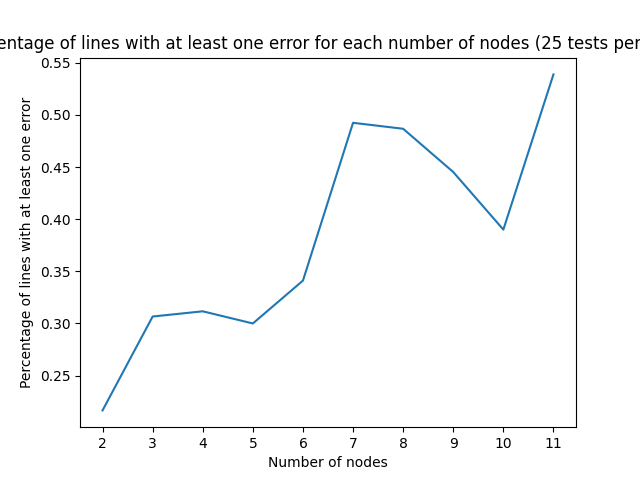
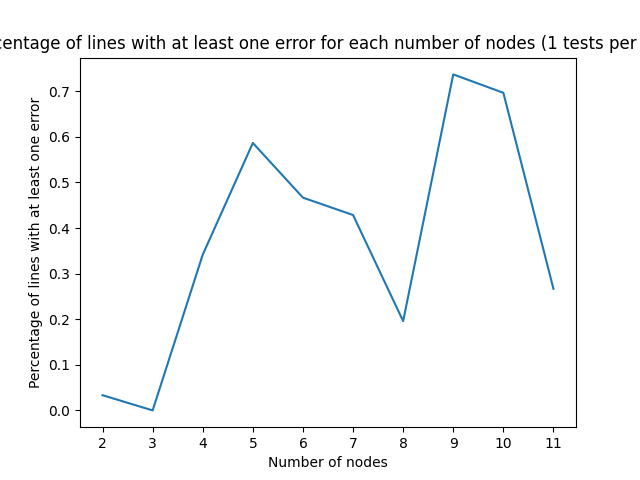
prompt engineering avanced

diff --git a/AutomatasGenerator/promptengeneering-multiversions.py b/AutomatasGenerator/promptengeneering-multiversions.py
@@ -1,0 +1,91 @@
+import openai
+import os
+from filecomparator import compare_files
+from datagenerator import generate_files
+import time
+import matplotlib.pyplot as plt
+NB_NODES_TO_TEST = 10
+NB_TEST_PER_NODE = 25
+NB_GENERATIONS_PER_PROMPT = 5  # number of generations per prompt
+PRICE_PER_TOKEN = 0.002/1000
+
+percentage_of_wrong_lines = [0]*NB_NODES_TO_TEST
+API_KEY = open(str(os.path.dirname(os.path.abspath(__file__))) + "/openai_key.txt", "r").read()
+FIRST_PROMPT = open(str(os.path.dirname(os.path.abspath(__file__))) + "/first_prompt_generateKnowledge.txt", "r").read()
+openai.api_key = API_KEY
+credits = 0
+PATH_TO_DATA = str(os.path.dirname(os.path.abspath(__file__))) + "/../data"
+has_succedded = [0]*NB_NODES_TO_TEST
+has_one_succedded = [0]*NB_NODES_TO_TEST  # For tracking at least one correct generation
+
+for i in range (2, NB_NODES_TO_TEST + 2):
+    print("doing",i,has_one_succedded)
+    generate_files(i, NB_TEST_PER_NODE, 1)
+    for j in range (1, NB_TEST_PER_NODE + 1):
+        PATH_TO_DATA_FILE = PATH_TO_DATA + "/exemple" + str(j) + "/requirement1.txt"
+        FILE_TO_TRANSFORM = open(PATH_TO_DATA_FILE, "r").read()
+        response = None
+        while(response == None):
+            try:
+                response = openai.ChatCompletion.create(
+                    model = "gpt-3.5-turbo",
+                    messages = [
+                        {"role": "user", "content": FIRST_PROMPT},
+                        {"role": "assistant", "content": "Waiting for any prompt."},
+                        {"role": "user", "content": "Q:\n" + FILE_TO_TRANSFORM}
+                    ],
+                    n = NB_GENERATIONS_PER_PROMPT  # number of versions to generate
+                )
+            except openai.error.RateLimitError:
+                print("Rate limit error, waiting 10 seconds...")
+                time.sleep(10)
+            except openai.error.ServiceUnavailableError:
+                print("Service unavailable, waiting for 30 seconds...")
+                time.sleep(30)
+            except openai.error:
+                print("Unknown openai error, waiting for 10 seconds...")
+                time.sleep(10)
+        credits += response['usage']['total_tokens']
+        one_success_in_this_input = False
+        for choice in response.choices:
+            with open("tmp.txt", "w") as f:
+                f.write(choice.message.content)
+            comparation = compare_files("tmp.txt", PATH_TO_DATA + "/exemple" + str(j) +"/fsm.dot")
+            comparation_lines = comparation.splitlines()
+            percentage_of_wrong_lines[i-2] += (len(comparation_lines)-1)/2/len(FILE_TO_TRANSFORM.splitlines())
+            if (comparation == "SUCCESS"):
+                has_succedded[i-2] += 1
+                one_success_in_this_input = True
+            os.remove("tmp.txt")
+        if one_success_in_this_input:
+            has_one_succedded[i-2] += 1
+
+print(has_succedded)
+print("In total i used "+ str(credits) + " tokens which corresponds to "+str(float(credits)*PRICE_PER_TOKEN) + " e.")
+percentage_of_success = [0]*NB_NODES_TO_TEST
+for i in range (0, NB_NODES_TO_TEST):
+    percentage_of_success[i] = has_succedded[i]/(NB_TEST_PER_NODE * NB_GENERATIONS_PER_PROMPT)
+
+percentage_of_one_success = [0]*NB_NODES_TO_TEST
+for i in range (0, NB_NODES_TO_TEST):
+    percentage_of_one_success[i] = has_one_succedded[i]/NB_TEST_PER_NODE
+
+print(percentage_of_wrong_lines)
+for i in range (0, NB_NODES_TO_TEST):
+    percentage_of_wrong_lines[i]  = percentage_of_wrong_lines[i]/(NB_TEST_PER_NODE * NB_GENERATIONS_PER_PROMPT)
+print(percentage_of_wrong_lines)
+plt.plot(range(2, NB_NODES_TO_TEST + 2), percentage_of_wrong_lines)
+plt.xticks(range(2, NB_NODES_TO_TEST + 2), map(int, range(2, NB_NODES_TO_TEST + 2)))
+plt.xlabel("Number of nodes")
+plt.ylabel("Percentage of lines with at least one error")
+plt.title("Percentage of lines with at least one error for each number of nodes ("+  str(NB_TEST_PER_NODE) +" tests per node)")
+plt.savefig('plot.png')
+plt.show()
+
+plt.plot(range(2, NB_NODES_TO_TEST + 2), percentage_of_one_success)
+plt.xticks(range(2, NB_NODES_TO_TEST + 2), map(int, range(2, NB_NODES_TO_TEST + 2)))
+plt.xlabel("Number of nodes")
+plt.ylabel("Percentage of at least one good answer per input")
+plt.title("Percentage of at least one good answer per input for each number of nodes ("+  str(NB_TEST_PER_NODE) +" tests per node)")
+plt.savefig('plot_one_success.png')
+plt.show()

diff --git a/AutomatasGenerator/promptengeneering-multishot.py b/AutomatasGenerator/promptengeneering-multishot.py
@@ -1,0 +1,72 @@
+import openai
+import os
+from filecomparator import compare_files
+from datagenerator import generate_files
+import time
+import matplotlib.pyplot as plt
+
+NB_NODES_TO_TEST = 10
+NB_TEST_PER_NODE = 25
+PRICE_PER_TOKEN = 0.002/1000
+
+percentage_of_wrong_lines = [0]*NB_NODES_TO_TEST
+
+API_KEY = open(str(os.path.dirname(os.path.abspath(__file__))) + "/openai_key.txt", "r").read()
+
+PROMPT_PATHS = [str(os.path.dirname(os.path.abspath(__file__))) + "/prompt1.txt",
+                str(os.path.dirname(os.path.abspath(__file__))) + "/prompt2.txt",
+                str(os.path.dirname(os.path.abspath(__file__))) + "/prompt3.txt"]  
+PROMPT_FILES = [open(path, "r").read() for path in PROMPT_PATHS]
+
+openai.api_key = API_KEY
+credits = 0
+PATH_TO_DATA = str(os.path.dirname(os.path.abspath(__file__))) + "/../data"
+has_succedded = [0]*NB_NODES_TO_TEST
+
+for i in range (2, NB_NODES_TO_TEST + 2):
+    generate_files(i, NB_TEST_PER_NODE, 1)
+    for j in range (1, NB_TEST_PER_NODE + 1):
+        f = open("tmp.txt", "w")
+        time.sleep(20)
+        PATH_TO_DATA_FILE = PATH_TO_DATA + "/exemple" + str(j) + "/requirement1.txt"
+        FILE_TO_TRANSFORM = open(PATH_TO_DATA_FILE, "r").read()
+        response = None
+        user_ai_prompts = [{'role': 'user', 'content': PROMPT_FILES[i % len(PROMPT_FILES)]} if i % 2 == 0 else 
+                           {'role': 'assistant', 'content': PROMPT_FILES[i % len(PROMPT_FILES)]} for i in range(len(PROMPT_FILES))]
+        user_ai_prompts.append({"role": "user", "content": "Q:\n" + FILE_TO_TRANSFORM})
+        while(response == None):
+            try:
+                response = openai.ChatCompletion.create(
+                    model = "gpt-3.5-turbo",
+                    messages = user_ai_prompts
+                )
+            except openai.error.RateLimitError:
+                print("Rate limit error, waiting 10 seconds...")
+                time.sleep(10)
+        credits += response['usage']['total_tokens']
+        f.write(response.choices[-1].message.content)
+        f.close()
+        comparation = compare_files("tmp.txt", PATH_TO_DATA + "/exemple" + str(j) +"/fsm.dot")
+        comparation_lines = comparation.splitlines()
+        percentage_of_wrong_lines[i-2] += (len(comparation_lines)-1)/2/len(FILE_TO_TRANSFORM.splitlines())
+        if (comparation == "SUCCESS"):
+            has_succedded[i-2] += 1
+        os.remove("tmp.txt")
+
+print(has_succedded)
+print("In total i used "+ str(credits) + " tokens which corresponds to "+str(float(credits)*PRICE_PER_TOKEN) + " e.")
+
+percentage_of_success = [0]*NB_NODES_TO_TEST
+for i in range (0, NB_NODES_TO_TEST):
+    percentage_of_success[i] = has_succedded[i]/NB_TEST_PER_NODE
+
+for i in range (0, NB_NODES_TO_TEST):
+    percentage_of_wrong_lines[i] = percentage_of_wrong_lines[i]/NB_TEST_PER_NODE
+
+plt.plot(range(2, NB_NODES_TO_TEST + 2), percentage_of_wrong_lines)
+plt.xticks(range(2, NB_NODES_TO_TEST + 2), map(int, range(2, NB_NODES_TO_TEST + 2)))
+plt.xlabel("Number of nodes")
+plt.ylabel("Percentage of lines with at least one error")
+plt.title("Percentage of lines with at least one error for each number of nodes ("+  str(NB_TEST_PER_NODE) +" tests per node)")
+plt.savefig('plot.png')
+plt.show()
